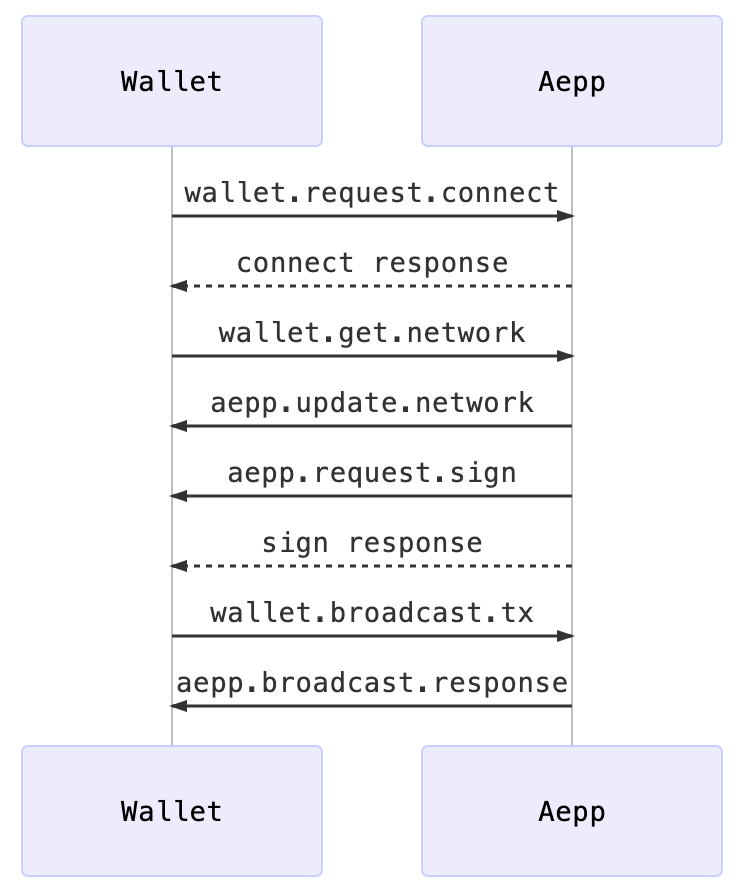
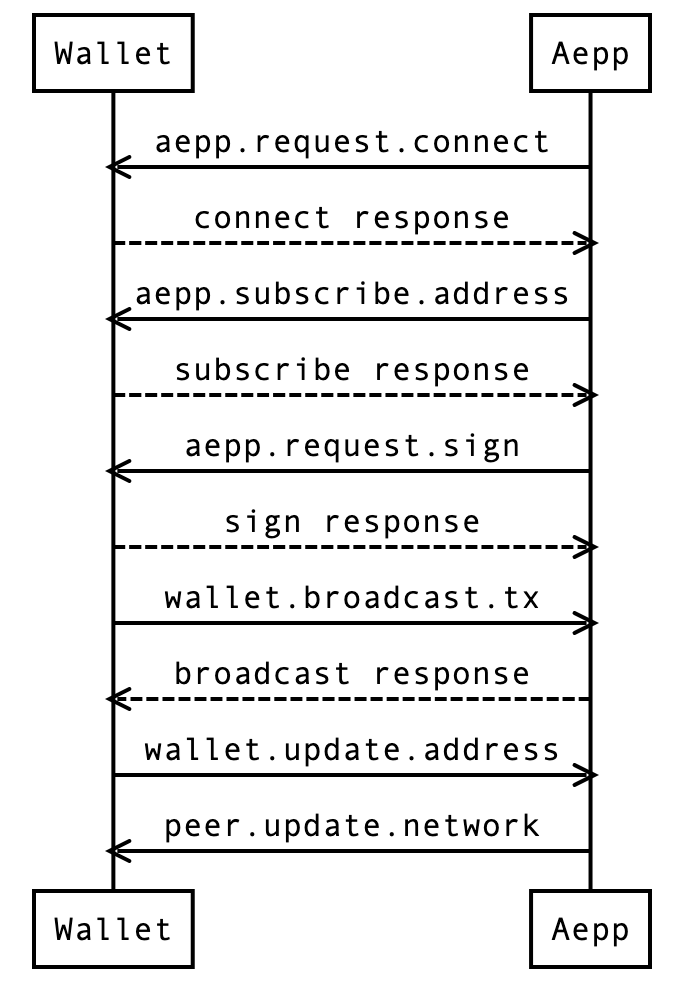
aex-2 updates (#57)
* aex-2 updates

* few fixes

* remove extra words

* update image

* add reference impl.

* update subscription method as to avoid extra notifications.

Changed region(s): [[0.0306, 0.0, 0.9796, 0.9966]]

diff --git a/AEXS/aex-2.md b/AEXS/aex-2.md
@@ -14,197 +14,202 @@ Created: 2019-03-04
 
 ## Simple Summary
 
-The document approaches the technical specification about how a wallet provider (ex. Base æpp, MetaMask) can interact with Aeternity enabled applications.
+The key words "MUST", "MUST NOT", "REQUIRED", "SHALL", "SHALL NOT", "SHOULD",
+"SHOULD NOT", "RECOMMENDED",  "MAY", and "OPTIONAL" in this document are to
+be interpreted as described in [RFC 2119](https://tools.ietf.org/html/rfc2119).
+
+This document describes the technical specification and methods that the wallet provider (ex. Base æpp, Wællet, MetaMask) MUST use to interact with Aeternity based applications (hereinafter referred to as 'aepp' or 'aepps').
 
 ## Motivation
 
-Currently, there exist no one standard way for wallets and SDK to communicate and everything developed on the SDK side is developed only keeping the Base æpp in mind and rest of the wallet providers need to follow the same path.
-By defining the standard way of communication between SDK(aepps) and Wallet we will not only reduce the dependency that other wallet providers have on the Base æpp as well as we'll have a clear standard method of communication on the SDK side that can be further extended whenever required.
+Currently, there exists no standard way for wallets and aepps to communicate and everything developed on the SDK side is developed only keeping the Base æpp in mind and rest of the wallet providers need to follow the same path.
+By defining the standard way of communication between aepps and Wallet we will not only reduce the dependency that other wallet providers have on the Base æpp as well as we'll have a clear standard method of communication on the SDK side that can be further extended upon whenever required.
 
 ## Specification
 
-### JSON-RPC 2.0 Methods
+### Naming Convention
 
-#### General
+Wherever possible, this document tries to closely follow the `who.what.how` naming convention for JSON-RPC methods.
 
-- `ping/pong`: general ping/pong messages to check liveness. Implementation of this method is not mandatory for wallets communicating over a transport layer that have native support for liveness check.
+### JSON-RPC 2.0 Specification
 
-    ##### Parameters
+#### Error
 
-    `Object`
+JSON-RPC 2.0 response error object that is used to communicate any error occurred while processing the request.
 
-  - `id` - A unique identifier, must conform to the [UUID v4 standards](https://tools.ietf.org/html/rfc4122#page-14)
+##### Types of errors
 
-    ##### Returns
+  |**Code**|**Message**|**Meaning**|
+  |:-----:|:-----:|:-----:|
+  |1|Transaction Verification Failed| MUST be returned when verification of signed transaction fails.|
+  |2|Invalid Transaction| MUST be returned whenever the transaction validity check fails and the node returns a similar error|
+  |3|Broadcast Failed| MUST be returned by the aepp or wallet if it has been unable to broadcast the transaction.|
+  |4|Signature Request Denied| MUST be returned by the wallet when it denies the signature request by aepp.|
+  |5|Subscription Denied| MUST be returned by the wallet whenever it denies an address subscription request.|
+  |6|Invalid Address| MUST be returned by the aepp when the address (or any address in a list) provided by wallet is invalid.|
+  |7|Unsupported Protocol Version| MUST be returned by aepp when it does not support protocol version the wallet wants to connect through.|
+  |8|Unsupported Network| MUST be thrown by aepp or wallet whenever it sees that the other party is using or requesting to process a transaction for a network that it does not support.|
 
-    Object`
+#### Methods
 
-    - `id` - same id as in the corresponding request
-    - `data` - Value will always be equal to `pong`
+##### Aepp Invokable Methods
 
-- `error`: used to communicate any error occurred. Embedded `data` field in each error object MUST contain the `request` that triggered it.
+  This section defines the methods that the aepps MUST invoke to either get information from the wallet or request the wallet to perform an action.
 
-  ##### JSON-RPC 2.0 Error Example:
+- `aepp.request.connect`: connection request sent by the aepp to the wallet.
+
+  **Parameters**
+
+    _Object_
+
+  - `name`: human-readable aepp name (Supported Datatype: string)
+  - `icons`: Aepp MAY specify an array of objects representing image files that can serve as application icons for different contexts. This array is the same as the icons described in the [Web App Manifest](https://developer.mozilla.org/en-US/docs/Web/Manifest/icons) but with the below changes:
+    - `src`: The path to the image file. This field MUST be an absolute URL.
+  - `version`: protocol version. Currently defaults to `1`.
+  - `network`: Network id used by the aepp
+
+  **Returns**
+
+    _Object_
+
+    - `name`: human-readable wallet name (Supported Datatype: string)
+    - `icons`: Wallet MAY specify an array of objects representing image files that can serve as application icons for different contexts. This array is the same as the icons described in the [Web App Manifest](https://developer.mozilla.org/en-US/docs/Web/Manifest/icons) but with the below changes:
+      - `src`: The path to the image file. This field MUST NOT be a relative URL and MUST be an absolute URL.
+    - `network`: Network id used by the wallet
+
+- `aepp.subscribe.address`: request the wallet to get or subscribe to address changes. This method MUST return only if the aepp is successfully subscribed else it MUST throw the appropriate error.
+
+    **Parameters**
+
+    _Object_
+
+    - `type`: payload indicating the type of update i.e. subscription or un-subscription. This supports two options:
+      - `subscribe` (datatype: string): MUST be used by the aepp to request a subscription.
+      - `unsubscribe` (datatype: string): MUST be used by the aepp to request an un-subscription.
+    - `value`: indicating the subscription/un-subscription that needs to be handled Currently supported options:
+      - `current` (datatype: string): MUST be used to for current user account
+      - `connected` (datatype: string): MUST be used for connected wallet accounts.
+
+  **Returns**
+
+    _Object_
+
+    - `subscription`: Array of string indicating the current subscriptions. Example: `['current', 'connected']`
+    - `address`: This is a nested JSON Object containing the subscribed addresses in the below defined format. Same as `wallet.update.address` notification, please refer for more details.
+    This field MUST be included in the response when the wallet receives a subscription request i.e. when `type == 'subscribe'`.
+    This field is OPTIONAL in the response when the wallet receives an un-subscription request i.e. when `type == 'unsubscribe'`.
+
+  **Account Format:**
 
   ```json
-      {
-        "error": {
-            "code": 1,
-            "data": {
-                "request": {}
-            },
-            "message": "Transaction verification failed"
-        },
-        "id": null,
-        "jsonrpc": "2.0"
+    {
+        "<subscription_type>": {
+            "<account_public_key>": {
+                "name": "<optional_human_readable_account_name>"
+            }
+        }
     }
   ```
 
-  ##### Types of errors
-
-    |**Code**|**Message**|**Meaning**|
-    |:-----:|:-----:|:-----:|
-    |1|Transaction verification failed|returned when verification of signed transaction fails.|
-    |2|Invalid transaction|returned by node for an invalid transaction.|
-    |3|Broadcast Failed| returned when Aepp/SDK loses connection to the node and is unable to broadcast the transaction.|
-    |4|Signature request denied|returned when wallet denies the signature request by Aepp/SDK.|
-    |5|Get address request denied|returned when wallet denies the address request by Aepp/SDK.|
-    |6|Invalid Address|returned by aepp when the address (or any address in a list) provided by wallet is invalid.|
-    |7|Unknown Identifier| returned by aepp or wallet when the enclosing `id` is unknown to the receiving party or is missing entirely.|
-    |8|Malformed Identifier| returned by aepp or wallet when the enclosing `id` does not conform to UUID v4 standards.|
-    |9|Unsupported Protocol Version| returned by aepp when it does not support protocol version the wallet wants to connect through.
-
-#### SDK/Aepp
-
-- `aepp.get.address`: request for address from wallet.
-
-    ##### Parameters
-
-    `Object`
-
-  - `id` - A unique identifier, must conform to the [UUID v4 standards](https://tools.ietf.org/html/rfc4122#page-14)
-
 - `aepp.request.sign`: request wallet for signature
 
-    ##### Parameters
+    **Parameters**
 
-    `Object`
+    _Object_
+  - `tx`: unsigned encoded transaction of type string.
+  - `locked`: Boolean (DEFAULT: `false`).
+    - `true`: the transaction SHOULD NOT be modified by the wallet.
+    - `false`: the transaction CAN be modified by the wallet.
+  - `return`: Boolean (DEFAULT: `false`).
+    - `true`: the aepp is indicating that it is expecting a signed transaction back in return and do not want the wallet to perform a transaction broadcast.
+    - `false`: the aepp wants the wallet to sign and broadcast the transaction and return only the transaction id.
 
-  - `id` - A unique identifier, must conform to the [UUID v4 standards](https://tools.ietf.org/html/rfc4122#page-14)
-  - `tx` - raw unsigned transaction
+  **Returns**
 
-  ##### Returns
+    _Object_
 
-    `Object`
+    - `result`: this can be either of two values depending on the request (as mentioned in the above description of `return`):
+      - `signed transaction`: signed encoded transaction of type string.
+      - `transaction hash`: encoded transaction hash of type string.
 
-  - `id` - same id as in the corresponding request
-  - `tx` - signed tx returned by the wallet
+##### Wallet Invokable Methods
 
-- `aepp.update.network`: Message sent by Aepp/SDK asking wallet to update the network details.
+  This section defines the methods that the wallet MUST invoke to either get information from the aepp or request the aepp to perform an operation.
 
-    ##### Parameters
+- `wallet.broadcast.tx`: Ask aepp to broadcast the transaction. If the aepp is unable to broadcast it **returns** the `error` with code `3`.
 
-    `Object`
+  **Parameters**
 
-  - `id` - A unique identifier, must conform to the [UUID v4 standards](https://tools.ietf.org/html/rfc4122#page-14)
+    _Object_
+  - `tx`: signed encoded transaction of type string.
+  - `verify`: Boolean. Perform verification before broadcasting or not.
 
-  - `network` - Current network id used by the Aepp/SDK.
+  **Returns**
 
-#### Wallet
+    _Object_
 
-- `wallet.request.connect`: connection request sent by the wallet containing an identifier that it wants to assign to the aepp/sdk. The provided identifier should be used for all the further communication between the aepp and wallet.
+    - `tx_id`: encoded transaction hash of type string.
 
-    ##### Parameters
+#### Notifications
 
-    `Object`
+- `wallet.awaiting.connection`: MAY be used by the wallets to announce their presence wherever required (e.g. postMessage API). This message SHOULD NOT be used by the wallets where a 1-to-1 connection with the aepp is already established but instead wait for the aepp to initiate the connection using `aepp.request.connect` message.
 
-  - `id` - A unique identifier, must conform to the [UUID v4 standards](https://tools.ietf.org/html/rfc4122#page-14)
-  - `name` - human readable wallet name
-  - `version` - protocol version. Currently defaults to `1`.
+  Note: This is a helper message for the aepp to identify the presence of a wallet.
 
-  ##### Returns
+  **Parameters**
 
-    `Object`
+    _Object_
 
-  - `id` - same id as in the corresponding request
-  - `name` - human readable aepp name
+    - `name`: human-readable wallet name (Supported Datatype: string)
+    - `icons`: Wallet MAY specify an array of objects representing image files that can serve as application icons for different contexts. This array is the same as the icons described in the [Web App Manifest](https://developer.mozilla.org/en-US/docs/Web/Manifest/icons) but with the below changes:
+      - `src`: The path to the image file. This field MUST NOT be a relative URL and MUST be an absolute URL.
+    - `network`: Network id used by the wallet
 
-- `wallet.get.network`: get network details from sdk
+- `peer.update.network`: MUST be used by Aepp or Wallet for informing the other party about the change of network.
 
-    ##### Parameters
+    **Parameters**
 
-    `Object`
+    _Object_
+  - `network`: Updated network id.
 
-  - `id` - A unique identifier, must conform to the [UUID v4 standards](https://tools.ietf.org/html/rfc4122#page-14)
+- `peer.connection.close`: MUST be used by Aepp or Wallet for informing the other party that it is disconnecting and further requests will either be denied or not acknowledged.¬
 
-- `wallet.update.address`: used by wallet for sending requested address. wallet can also send the list of address of the wallets it is further connected to.
+    **Parameters**
 
-    ##### Parameters
+    _Object_
 
-    `Object`
+- `wallet.update.address`: MUST be used by the wallet to notify subscribed aepps about the address change.
 
-  - `id` - A unique identifier, must conform to the [UUID v4 standards](https://tools.ietf.org/html/rfc4122#page-14)
-  - `address` - Object containing two objects named `current` and `connected`.
+  **Parameters**
 
-    - `current` - Object containing only a single account currently in use by the wallet.
+    _Object_
+  - `address`: JSON Object. This MAY contain 1 or more keys but only of the below types. The values in the object completely depend on the aepp's subscription.
 
-    - `connected`(optional) - Object containing multiple connected accounts.
+    **Subscription Type:**
 
-      ###### Example Account Format
+    - `current`: Object containing only a single account currently in use by the wallet. The account MAY also have an embedded `name` key which is a human-readable name for the account.
+    - `connected`: Object containing multiple connected accounts. The accounts MAY also have an embedded `name` key which is a human-readable name for the account.
 
-        ```json
+    **Account Format:**
+
+      ```json
         {
-            "current": {
-                "ak_2iBPH7HUz3cSDVEUWiHg76MZJ6tZooVNBmmxcgVK6VV8KAE688": {
-                    "name": "this property is optional"
+            "<subscription_type>": {
+                "<account_public_key>": {
+                    "name": "<optional_human_readable_account_name>"
                 }
             }
         }
-        ```
-
-- `wallet.broadcast.tx`: Ask Aepp/SDK to broadcast the transaction. If the Aepp/SDK is unable to broadcast it returns the `error`  with code `3`.
-
-    ##### Parameters
-
-    `Object`
-
-  - `id` - A unique identifier, must conform to the [UUID v4 standards](https://tools.ietf.org/html/rfc4122#page-14)
-  - `tx` - signed transaction to be broadcasted
-  - `verify` - Boolean. Perform verification before broadcasting or not.
-
-  ##### Returns
-
-    `Object`
-
-  - `id` - same id as in the corresponding request
-  - `tx_id` - transaction id of the broadcasted transaction
-
-- `wallet.verify.tx`: verify the tx from the SDK. On verification success, a response object is returned else with `status` field with a value `ok` else error with `code 1` is returned.
-
-    ##### Parameters
-
-    `Object`
-
-  - `id` - A unique identifier, must conform to the [UUID v4 standards](https://tools.ietf.org/html/rfc4122#page-14)
-  - `tx` - signed transaction to be verified
-
-  ##### Returns
-
-    `Object`
-
-  - `id` - same id as in the corresponding request
-  - `status` - Value will always be equal to `ok`
-
-- `wallet.disconnect.aepp`: wallet lets the aepp know that it will disconnect. no further acknowledgement required.
-
-    ##### Parameters
-
-    `Object`
-
-  - `id` - A unique identifier, must conform to the [UUID v4 standards](https://tools.ietf.org/html/rfc4122#page-14)
+      ```
 
 ## Example Flow
 
 <p align="center">
-<img src="https://github.com/aeternity/AEXs/raw/master/assets/aex-2/example-flow.png" width="400px">
+<img src="../assets/aex-2/example-flow.png" width="400px">	
 </p>
+
+## Reference Implementation
+
+- Aepp: https://github.com/aeternity/aepp-sdk-js/tree/feature/aex-2/examples/browser/vuejs/connect-two-ae
+
+- Extension Wallet: https://github.com/aeternity/aepp-sdk-js/tree/feature/aex-2/examples/browser/extension
